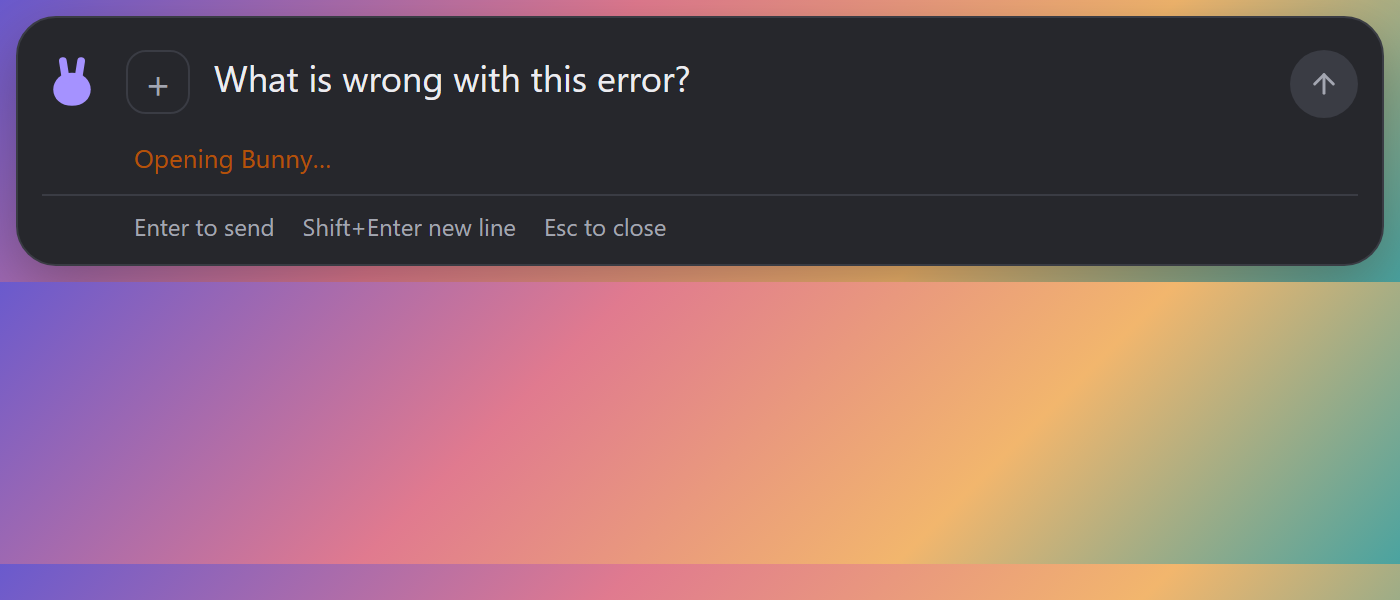
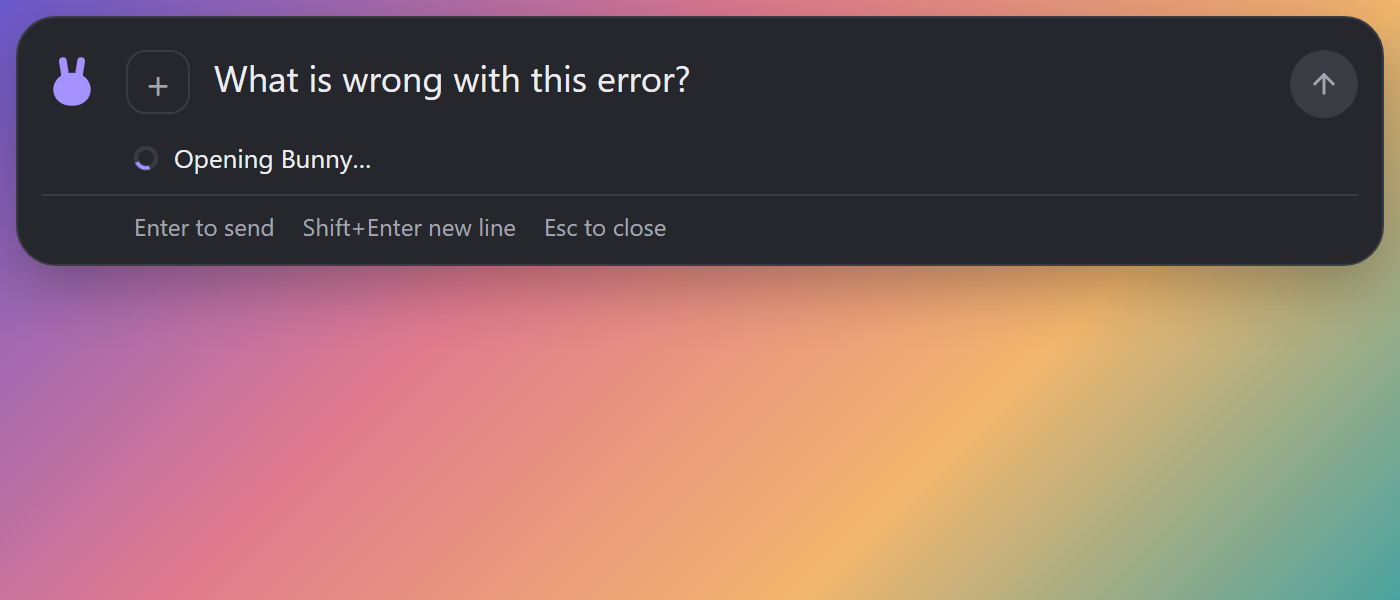
Design: W4-8 build 5c8c25a checked against 1827a0d, PASS (supersedes FAIL at 304e71a)

Changed region(s): [[0.0, 0.0, 1.0, 1.0], [0.0921, 0.24, 0.2764, 0.3]]

diff --git a/docs/design/review-w48-build/README-5c8c25a.md b/docs/design/review-w48-build/README-5c8c25a.md
@@ -1,0 +1,11 @@
+# W4-8 quick-ask bar: re-check at 5c8c25a against drawing 1827a0d
+
+Design, 2026-11-17. Verdict: **PASS** (supersedes the FAIL at 304e71a; earlier notes are in README.md).
+
+Shot again from the extracted build `5c8c25a` at the real window size (700 x 300), light and dark, every state: `shots/bar-{empty,typing,menu,chip,send,err-shot,err-open}-{light,dark}.png`; measurements in `shots/log-5c8.txt`. The same stand-in for the two bridge calls as before. Not tested: the real Electron window, the shortcut, the tray, a real screen capture.
+
+- **The + menu fits:** body 0 to 300 (was 0 to 115); menu 71 to 138; both lines of "Add a screenshot" visible.
+- **"Opening Bunny…"** is normal text colour with a small accent spinner; under reduced motion the animation is `none`. While sending the send button turns grey (disabled) instead of staying dark as drawn: accepted.
+- **Amber only for the two real problems** ("Bunny could not take a screenshot.", "Bunny could not open."): rgb(180,83,9) light, rgb(233,173,82) dark.
+- **"Add a file…"** moved to v0.1.9 by the Chief of Staff, so it is no longer a gap.
+- **Contrast, measured** (WCAG ratio from the computed colours against the bar's own surface; not an audit of every pixel): text 16.27 light / 12.65 dark; hint and placeholder 5.09 / 6.14; bunny mark 5.70 / 5.79; chip text 15.08 / 11.48; send icon on the dark button 16.27 / 13.81; "Opening Bunny…" text 16.27 / 12.65 and spinner 5.70 / 5.79; problem line 5.02 / 7.50. All are at least 4.5:1 for text and 3:1 for the mark and spinner. The disabled grey send button was not measured.

diff --git a/docs/signoffs/w4-8/design.md b/docs/signoffs/w4-8/design.md
@@ -1,9 +1,9 @@
 ---
 piece: w4-8
 role: design
-sha: 304e71a
-verdict: FAIL
+sha: 5c8c25a
+verdict: PASS
 date: 2026-11-17
 ---
 
-Quick-ask bar unchanged since e061ce6: + menu still clipped (body 0-115, menu 71-138, overflow hidden); Opening Bunny still warning amber; see docs/design/review-w48-build/README.md
+Menu fits, Opening Bunny normal text with spinner, amber only for errors, contrast measured; see docs/design/review-w48-build/README-5c8c25a.md
